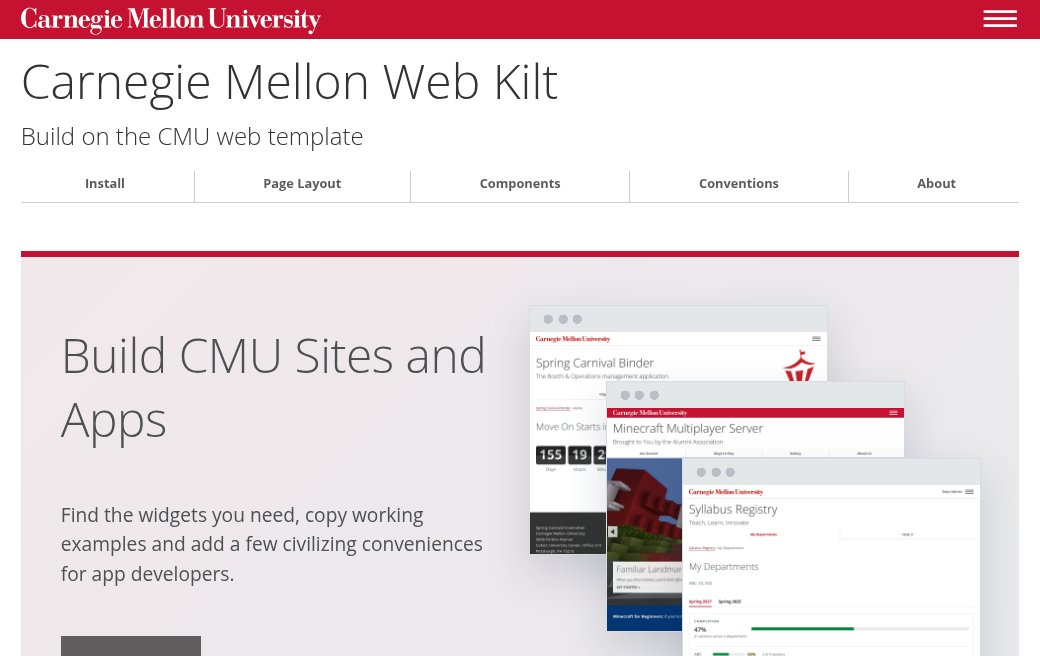
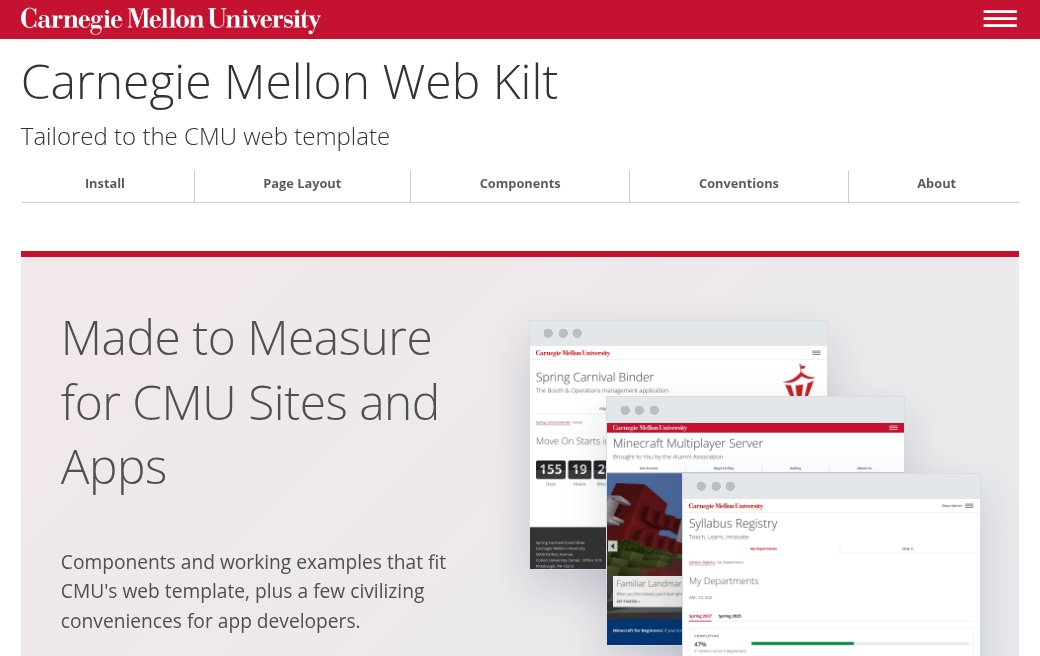
docs: Made to Measure for CMU Sites and Apps; tagline Tailored to the CMU web template
* Conventions: taglines and slogans in sentence case, headings in Title Case

Changed region(s): [[0.4923, 0.4573, 0.9538, 1.0], [0.0615, 0.4878, 0.4615, 1.0], [0.0, 0.1829, 0.3692, 0.2439]]

diff --git a/docs/index.html b/docs/index.html
@@ -7,14 +7,14 @@
     <!-- Link previews: written by tools/opengraph.mjs -->
     <meta
       name="description"
-      content="Find the widgets you need, copy working examples and add a few civilizing conveniences for app developers."
+      content="Components and working examples that fit CMU's web template, plus a few civilizing conveniences for app developers."
     />
     <meta property="og:type" content="website" />
     <meta property="og:site_name" content="Carnegie Mellon Web Kilt" />
     <meta property="og:title" content="Carnegie Mellon Web Kilt" />
     <meta
       property="og:description"
-      content="Find the widgets you need, copy working examples and add a few civilizing conveniences for app developers."
+      content="Components and working examples that fit CMU's web template, plus a few civilizing conveniences for app developers."
     />
     <meta property="og:url" content="https://webkilt.andrew.cmu.edu/" />
     <meta property="og:image" content="https://webkilt.andrew.cmu.edu/images/preview.jpg" />
@@ -22,7 +22,7 @@
     <meta property="og:image:height" content="630" />
     <meta
       property="og:image:alt"
-      content="The Carnegie Mellon Web Kilt's home page: Build CMU Sites and Apps, beside screenshots of three sites built with it."
+      content="The Carnegie Mellon Web Kilt's home page: Made to Measure for CMU Sites and Apps, beside screenshots of three sites built with it."
     />
     <meta name="twitter:card" content="summary_large_image" />
     <!-- End of link previews -->
@@ -58,7 +58,7 @@
         </div>
         <div id="sitename">
           <span class="sitetitle"><a href="./">Carnegie Mellon Web Kilt</a></span>
-          <h2>Build on the CMU web template</h2>
+          <h2>Tailored to the CMU web template</h2>
         </div>
       </header>
 
@@ -67,9 +67,9 @@
           <div>
             <div class="cmu-hero">
               <div>
-                <h1>Build CMU Sites and Apps</h1>
+                <h1>Made to Measure for CMU Sites and Apps</h1>
                 <p class="cmu-lead">
-                  Find the widgets you need, copy working examples and add a few civilizing
+                  Components and working examples that fit CMU's web template, plus a few civilizing
                   conveniences for app developers.
                 </p>
                 <div class="cmu-cta-row">

diff --git a/docs/conventions.html b/docs/conventions.html
@@ -22,7 +22,7 @@
     <meta property="og:image:height" content="630" />
     <meta
       property="og:image:alt"
-      content="The Carnegie Mellon Web Kilt's home page: Build CMU Sites and Apps, beside screenshots of three sites built with it."
+      content="The Carnegie Mellon Web Kilt's home page: Made to Measure for CMU Sites and Apps, beside screenshots of three sites built with it."
     />
     <meta name="twitter:card" content="summary_large_image" />
     <!-- End of link previews -->
@@ -58,7 +58,7 @@
         </div>
         <div id="sitename">
           <span class="sitetitle"><a href="./">Carnegie Mellon Web Kilt</a></span>
-          <h2>Build on the CMU web template</h2>
+          <h2>Tailored to the CMU web template</h2>
         </div>
       </header>
 
@@ -166,6 +166,9 @@
                 or more letters, such as "With" and "From," and the first and last word: "Upload
                 Your Syllabus." Use sentence case for prose: "Upload your syllabus before classes
                 start."
+              </li>
+              <li>
+                <strong>Write a tagline or slogan in sentence case,</strong> like a sentence: this site's is &ldquo;Tailored to the CMU web template,&rdquo; under its name. Headings and headlines stay in Title Case, as on the university's own pages.
               </li>
               <li>
                 <strong>Leave periods off headings and hero titles.</strong> Use normal punctuation
@@ -294,7 +297,7 @@
             <figure class="cmu-shot">
               <img
                 src="images/conventions-hero.jpg"
-                alt="The kit's home page hero: the title Build CMU Sites and Apps, a one-sentence lead, an Install the Kit button and a Get Started link, beside stacked screenshots of three CMU sites."
+                alt="The kit's home page hero: the title Made to Measure for CMU Sites and Apps, a one-sentence lead, an Install the Kit button and a Get Started link, beside stacked screenshots of three CMU sites."
                 width="1248"
                 height="612"
               />

diff --git a/docs/previews.html b/docs/previews.html
@@ -24,7 +24,7 @@
     <meta property="og:image:height" content="630" />
     <meta
       property="og:image:alt"
-      content="The Carnegie Mellon Web Kilt's home page: Build CMU Sites and Apps, beside screenshots of three sites built with it."
+      content="The Carnegie Mellon Web Kilt's home page: Made to Measure for CMU Sites and Apps, beside screenshots of three sites built with it."
     />
     <meta name="twitter:card" content="summary_large_image" />
     <!-- End of link previews -->
@@ -60,7 +60,7 @@
         </div>
         <div id="sitename">
           <span class="sitetitle"><a href="./">Carnegie Mellon Web Kilt</a></span>
-          <h2>Build on the CMU web template</h2>
+          <h2>Tailored to the CMU web template</h2>
         </div>
       </header>
 
@@ -103,7 +103,7 @@
                       src="images/preview.jpg"
                       width="1200"
                       height="630"
-                      alt="The Web Kilt home page, with the heading Build CMU Sites and Apps beside screenshots of three CMU sites."
+                      alt="The Web Kilt home page, with the heading Made to Measure for CMU Sites and Apps beside screenshots of three CMU sites."
                     />
                     <div class="kit-link-preview-text">
                       <span>webkilt.andrew.cmu.edu</span>

diff --git a/docs/about.html b/docs/about.html
@@ -18,7 +18,7 @@
     <meta property="og:image:height" content="630" />
     <meta
       property="og:image:alt"
-      content="The Carnegie Mellon Web Kilt's home page: Build CMU Sites and Apps, beside screenshots of three sites built with it."
+      content="The Carnegie Mellon Web Kilt's home page: Made to Measure for CMU Sites and Apps, beside screenshots of three sites built with it."
     />
     <meta name="twitter:card" content="summary_large_image" />
     <!-- End of link previews -->
@@ -58,7 +58,7 @@
         </div>
         <div id="sitename">
           <span class="sitetitle"><a href="./">Carnegie Mellon Web Kilt</a></span>
-          <h2>Build on the CMU web template</h2>
+          <h2>Tailored to the CMU web template</h2>
         </div>
       </header>
 

diff --git a/docs/accounts.html b/docs/accounts.html
@@ -22,7 +22,7 @@
     <meta property="og:image:height" content="630" />
     <meta
       property="og:image:alt"
-      content="The Carnegie Mellon Web Kilt's home page: Build CMU Sites and Apps, beside screenshots of three sites built with it."
+      content="The Carnegie Mellon Web Kilt's home page: Made to Measure for CMU Sites and Apps, beside screenshots of three sites built with it."
     />
     <meta name="twitter:card" content="summary_large_image" />
     <!-- End of link previews -->
@@ -58,7 +58,7 @@
         </div>
         <div id="sitename">
           <span class="sitetitle"><a href="./">Carnegie Mellon Web Kilt</a></span>
-          <h2>Build on the CMU web template</h2>
+          <h2>Tailored to the CMU web template</h2>
         </div>
       </header>
 

diff --git a/docs/components.html b/docs/components.html
@@ -22,7 +22,7 @@
     <meta property="og:image:height" content="630" />
     <meta
       property="og:image:alt"
-      content="The Carnegie Mellon Web Kilt's home page: Build CMU Sites and Apps, beside screenshots of three sites built with it."
+      content="The Carnegie Mellon Web Kilt's home page: Made to Measure for CMU Sites and Apps, beside screenshots of three sites built with it."
     />
     <meta name="twitter:card" content="summary_large_image" />
     <!-- End of link previews -->
@@ -58,7 +58,7 @@
         </div>
         <div id="sitename">
           <span class="sitetitle"><a href="./">Carnegie Mellon Web Kilt</a></span>
-          <h2>Build on the CMU web template</h2>
+          <h2>Tailored to the CMU web template</h2>
         </div>
       </header>
 

diff --git a/docs/content.html b/docs/content.html
@@ -22,7 +22,7 @@
     <meta property="og:image:height" content="630" />
     <meta
       property="og:image:alt"
-      content="The Carnegie Mellon Web Kilt's home page: Build CMU Sites and Apps, beside screenshots of three sites built with it."
+      content="The Carnegie Mellon Web Kilt's home page: Made to Measure for CMU Sites and Apps, beside screenshots of three sites built with it."
     />
     <meta name="twitter:card" content="summary_large_image" />
     <!-- End of link previews -->
@@ -63,7 +63,7 @@
         </div>
         <div id="sitename">
           <span class="sitetitle"><a href="./">Carnegie Mellon Web Kilt</a></span>
-          <h2>Build on the CMU web template</h2>
+          <h2>Tailored to the CMU web template</h2>
         </div>
       </header>
 

diff --git a/docs/forms.html b/docs/forms.html
@@ -22,7 +22,7 @@
     <meta property="og:image:height" content="630" />
     <meta
       property="og:image:alt"
-      content="The Carnegie Mellon Web Kilt's home page: Build CMU Sites and Apps, beside screenshots of three sites built with it."
+      content="The Carnegie Mellon Web Kilt's home page: Made to Measure for CMU Sites and Apps, beside screenshots of three sites built with it."
     />
     <meta name="twitter:card" content="summary_large_image" />
     <!-- End of link previews -->
@@ -58,7 +58,7 @@
         </div>
         <div id="sitename">
           <span class="sitetitle"><a href="./">Carnegie Mellon Web Kilt</a></span>
-          <h2>Build on the CMU web template</h2>
+          <h2>Tailored to the CMU web template</h2>
         </div>
       </header>
 

diff --git a/docs/gallery.html b/docs/gallery.html
@@ -27,7 +27,7 @@
     <meta property="og:image:height" content="630" />
     <meta
       property="og:image:alt"
-      content="The Carnegie Mellon Web Kilt's home page: Build CMU Sites and Apps, beside screenshots of three sites built with it."
+      content="The Carnegie Mellon Web Kilt's home page: Made to Measure for CMU Sites and Apps, beside screenshots of three sites built with it."
     />
     <meta name="twitter:card" content="summary_large_image" />
     <!-- End of link previews -->
@@ -63,7 +63,7 @@
         </div>
         <div id="sitename">
           <span class="sitetitle"><a href="./">Carnegie Mellon Web Kilt</a></span>
-          <h2>Build on the CMU web template</h2>
+          <h2>Tailored to the CMU web template</h2>
         </div>
       </header>
 

diff --git a/docs/install.html b/docs/install.html
@@ -22,7 +22,7 @@
     <meta property="og:image:height" content="630" />
     <meta
       property="og:image:alt"
-      content="The Carnegie Mellon Web Kilt's home page: Build CMU Sites and Apps, beside screenshots of three sites built with it."
+      content="The Carnegie Mellon Web Kilt's home page: Made to Measure for CMU Sites and Apps, beside screenshots of three sites built with it."
     />
     <meta name="twitter:card" content="summary_large_image" />
     <!-- End of link previews -->
@@ -58,7 +58,7 @@
         </div>
         <div id="sitename">
           <span class="sitetitle"><a href="./">Carnegie Mellon Web Kilt</a></span>
-          <h2>Build on the CMU web template</h2>
+          <h2>Tailored to the CMU web template</h2>
         </div>
       </header>
 

diff --git a/docs/layout.html b/docs/layout.html
@@ -22,7 +22,7 @@
     <meta property="og:image:height" content="630" />
     <meta
       property="og:image:alt"
-      content="The Carnegie Mellon Web Kilt's home page: Build CMU Sites and Apps, beside screenshots of three sites built with it."
+      content="The Carnegie Mellon Web Kilt's home page: Made to Measure for CMU Sites and Apps, beside screenshots of three sites built with it."
     />
     <meta name="twitter:card" content="summary_large_image" />
     <!-- End of link previews -->
@@ -58,7 +58,7 @@
         </div>
         <div id="sitename">
           <span class="sitetitle"><a href="./">Carnegie Mellon Web Kilt</a></span>
-          <h2>Build on the CMU web template</h2>
+          <h2>Tailored to the CMU web template</h2>
         </div>
       </header>
 

diff --git a/docs/lists.html b/docs/lists.html
@@ -24,7 +24,7 @@
     <meta property="og:image:height" content="630" />
     <meta
       property="og:image:alt"
-      content="The Carnegie Mellon Web Kilt's home page: Build CMU Sites and Apps, beside screenshots of three sites built with it."
+      content="The Carnegie Mellon Web Kilt's home page: Made to Measure for CMU Sites and Apps, beside screenshots of three sites built with it."
     />
     <meta name="twitter:card" content="summary_large_image" />
     <!-- End of link previews -->
@@ -60,7 +60,7 @@
         </div>
         <div id="sitename">
           <span class="sitetitle"><a href="./">Carnegie Mellon Web Kilt</a></span>
-          <h2>Build on the CMU web template</h2>
+          <h2>Tailored to the CMU web template</h2>
         </div>
       </header>
 
